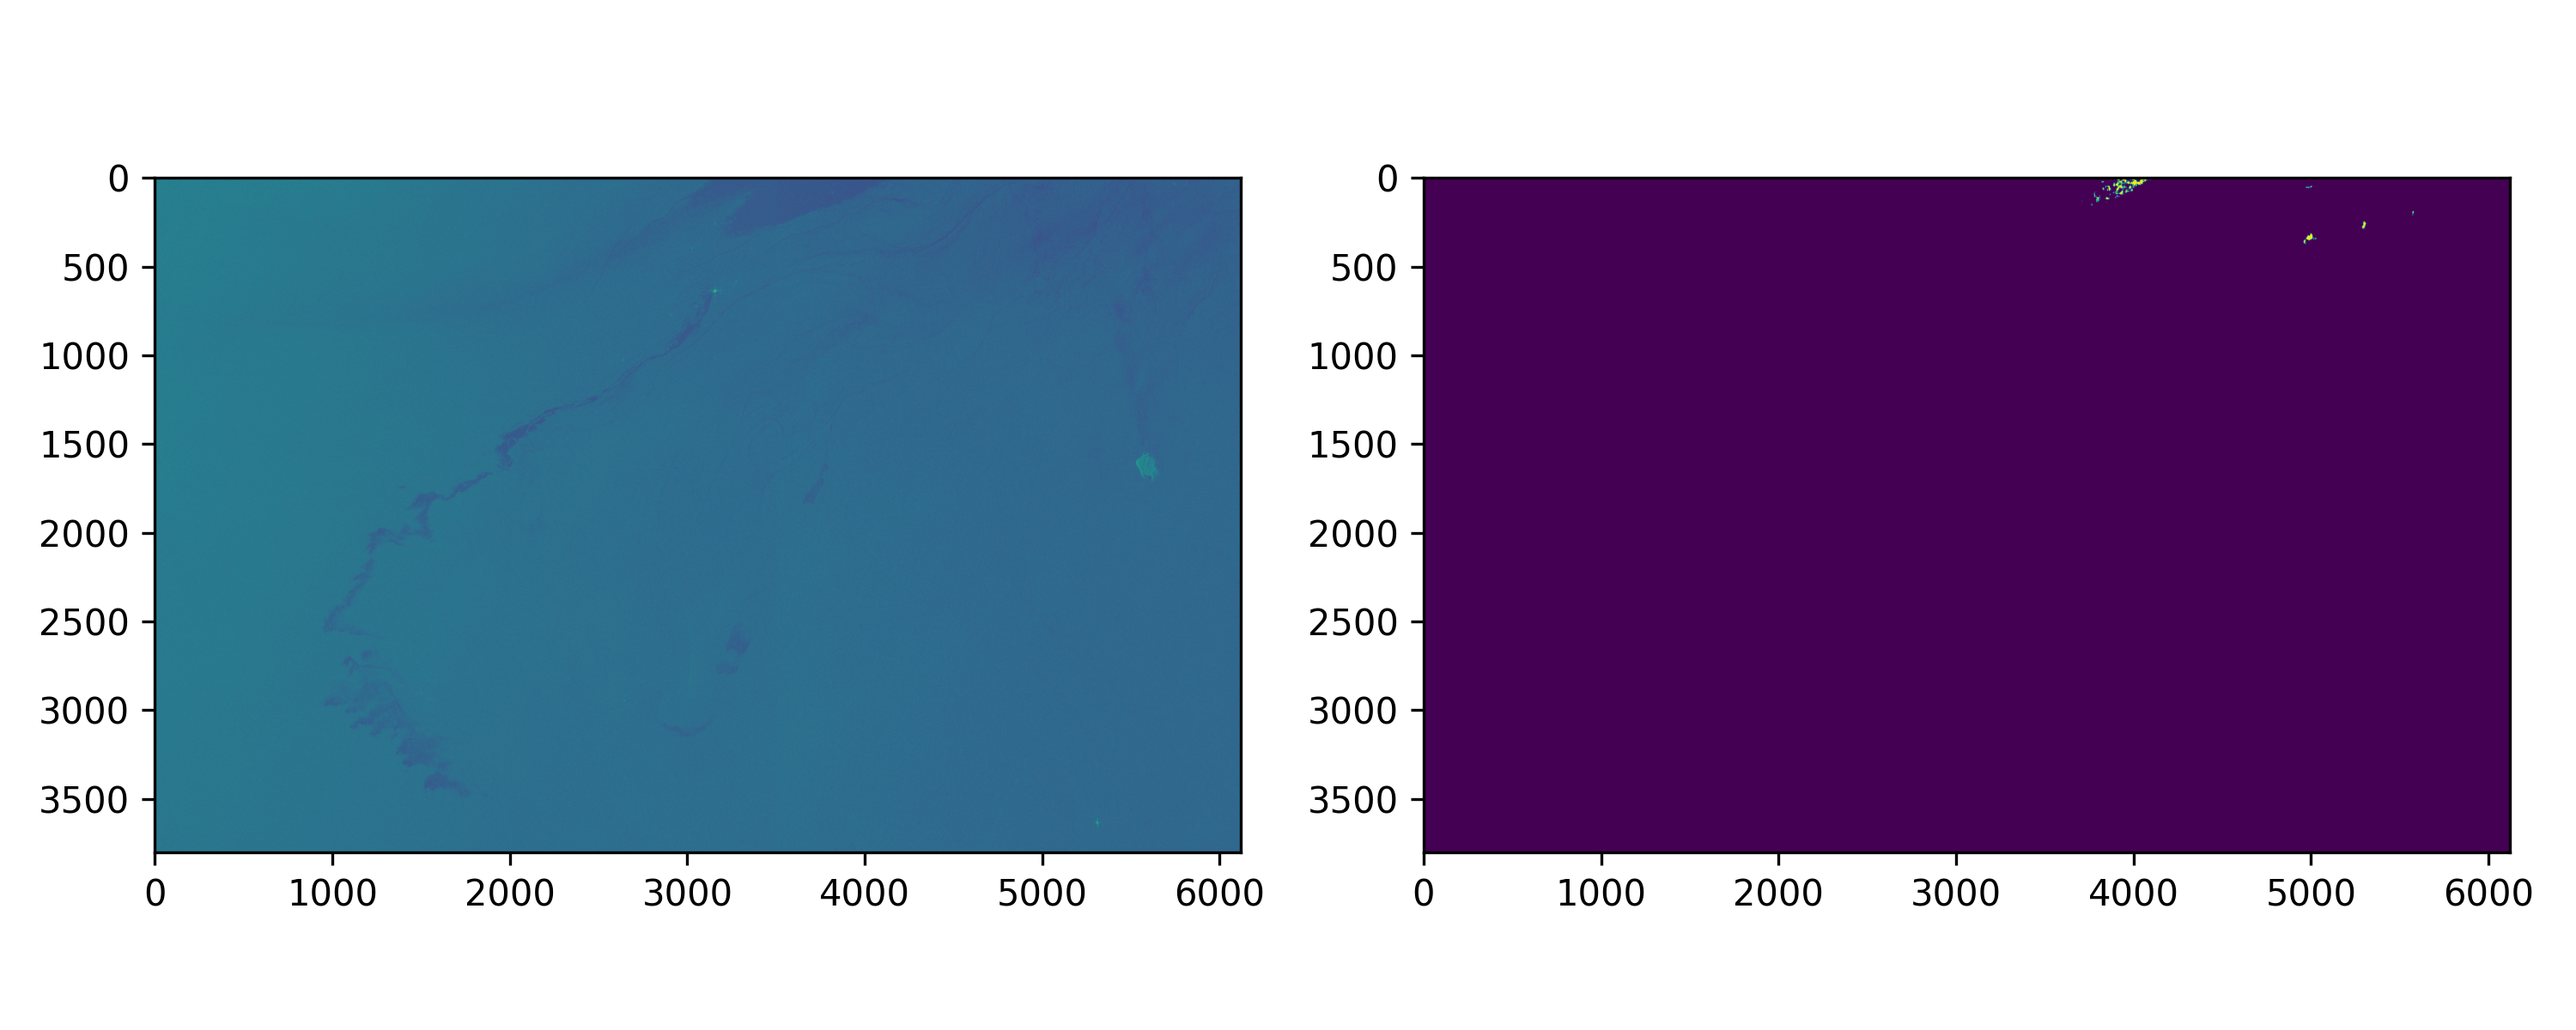
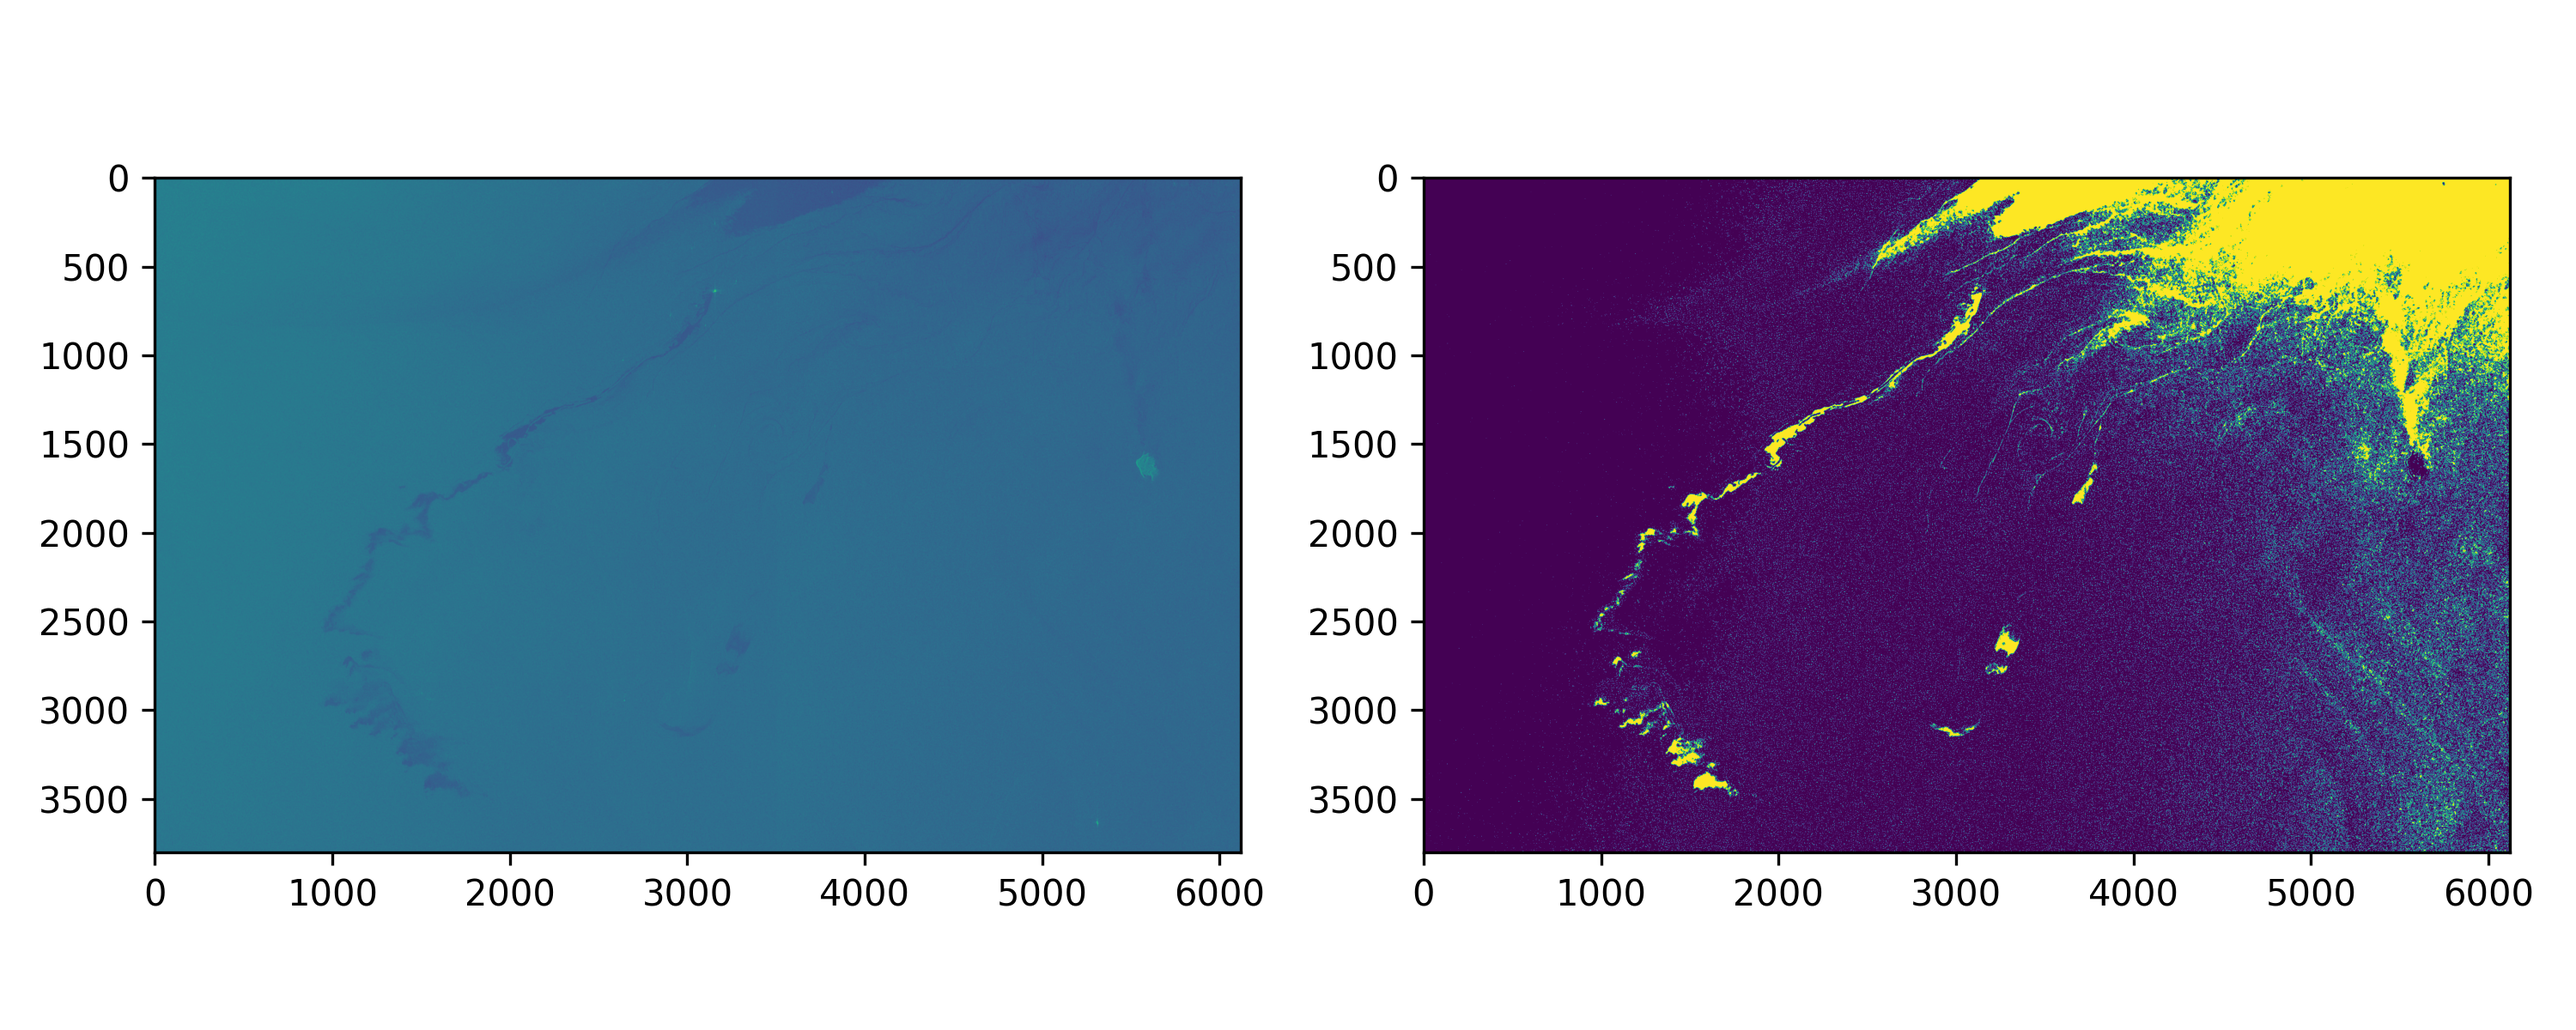
new GLCM texture features for classification made

Changed region(s): [[0.62, 0.1542, 0.992, 0.8325]]

diff --git a/routines/functions.py b/routines/functions.py
@@ -10,11 +10,12 @@ import matplotlib.pyplot as plt
 from matplotlib.pyplot import imshow
 from scipy.fftpack import fftn
 from scipy.ndimage.filters import laplace, gaussian_filter
+from skimage.feature import greycomatrix, greycoprops
 from scipy.signal import convolve2d
 from scipy.spatial import KDTree
 
 
-def discarray(filename, mode='r', dtype=float, shape=None):
+def discarray(filename, mode='r', dtype=float, shape=None, order='C'):
     file_mode = f'{mode[0]}b{mode[1:]}'
     if not isinstance(shape, tuple):
         shape = (shape,)
@@ -26,8 +27,9 @@ def discarray(filename, mode='r', dtype=float, shape=None):
             ndims = np.fromfile(io, dtype=np.int64, count=1)[0]
             shape = tuple(np.fromfile(io, dtype=np.int64, count=ndims))
         offset = io.tell()
-        arr = np.memmap(io, dtype=dtype, mode=mode, offset=offset, shape=shape)
-        return(arr)
+        arr = np.memmap(io, mode=mode, dtype=dtype, shape=shape,
+                        offset=offset, order=order)
+    return(arr)
 
 
 def get_block_corners(yc, xc, ws):
@@ -71,11 +73,52 @@ def timer(func):
     return wrapper_timer
 
 
-def normalize01(array):
-    minval = array.min()
-    maxval = array.max()
-    norm_array = (array - minval) / (maxval - minval)
+def normalize01(arr):
+    minval = arr.min()
+    maxval = arr.max()
+    norm_array = (arr - minval) / (maxval - minval)
     return(norm_array)
+
+
+def span_between(arr, vmin=0, vmax=1, dtype=None):
+    _arr = vmin + (vmax - vmin) * normalize01(arr)
+    if dtype is not None:
+        _arr = dtype(_arr)
+    return _arr
+
+
+def unsigned_span(img, dtype=np.uint8):
+    max_repr = 2**(8*np.dtype(dtype).itemsize)-1
+    _img = span_between(img, vmin=0, vmax=max_repr, dtype=dtype)
+    return _img
+
+
+def get_glcm(img, distances=None, angles=None):
+    if distances is None:
+        distances = np.unique(
+            np.arange(1, np.min(img.shape), 6, dtype=np.int64)
+        )
+    if angles is None:
+        angles = [0, np.pi/2, np.pi/4]
+    uimg = unsigned_span(img)
+    glcm = greycomatrix(uimg, distances=distances, angles=angles, normed=True)
+    return(glcm)
+
+
+def get_correlation(glcm):
+    return greycoprops(glcm, "correlation")[0, :].mean()
+
+
+def get_dissimilarity(glcm):
+    return greycoprops(glcm, "dissimilarity")[0, :].mean()
+
+
+def get_homogeneity(glcm):
+    return greycoprops(glcm, "homogeneity")[0, :].mean()
+
+
+def get_energy(glcm):
+    return greycoprops(glcm, "energy")[0, :].mean()
 
 
 def listifext(folder, exts=None, fullpath=False):

diff --git a/routines/segmentation_scikit.py b/routines/segmentation_scikit.py
@@ -17,7 +17,7 @@ else:
     ROOT = '.'
 
 MODELS = join(ROOT, 'models')
-MODEL_NAME = 'segmentation_gmm_mwa15_LABELS_1_0.bin'
+MODEL_NAME = '../models/segmentation_test_mwa3_mwa15_gmm.bin'
 SEGMENTATION_MODEL = join(MODELS, MODEL_NAME)
 # SEGMENTATION_MODEL_SCALER = join(MODELS, f'{MODEL_NAME}_scaler')
 
@@ -30,6 +30,10 @@ FEATURES = [
         # 'name': 'val',
         # 'function': lambda img: img,
     # },
+    {
+        'name': 'mwa3x3',
+        'function': lambda img: get_mwa(1)(img),
+    },
     {
         'name': 'mwa15x15',
         'function': lambda img: get_mwa(7)(img),
@@ -62,6 +66,7 @@ def segmentate(img):
     # X = segmentation_model_scaler.transform(X)
     print(f"    Perfforming segmentation of block.")
     y = segmentation_model.predict(X)
+    y[y==2] = 0
     return(y.reshape(img.shape))
 
 
@@ -73,17 +78,16 @@ if __name__ == '__main__':
     ncvar = ncd.variables['Sigma0_VV_db']
     var = np.array(ncvar)
 
-    import seaborn as sns
-    sns.distplot(get_mwa(7)(var).flatten())
+    # import seaborn as sns
+    # sns.distplot(get_mwa(7)(var).flatten())
+    # plt.show()
+
+
+    segmented = segmentate(var)
+
+    fig, axes = plt.subplots(1, 2, dpi=300, figsize=(10, 4))
+    axes[0].imshow(var)
+    axes[1].imshow(segmented)
+    fig.tight_layout()
+    fig.savefig('segmodel_5_2_1_5_10.png')
     plt.show()
-
-
-#    segmented = segmentate(var)
-#
-#    fig, axes = plt.subplots(1, 2, dpi=300, figsize=(10, 4))
-#    axes[0].imshow(var)
-#    axes[1].imshow(segmented)
-#    fig.tight_layout()
-#    fig.savefig('segmodel_5_2_1_5_10.png')
-#    plt.show()
-#
